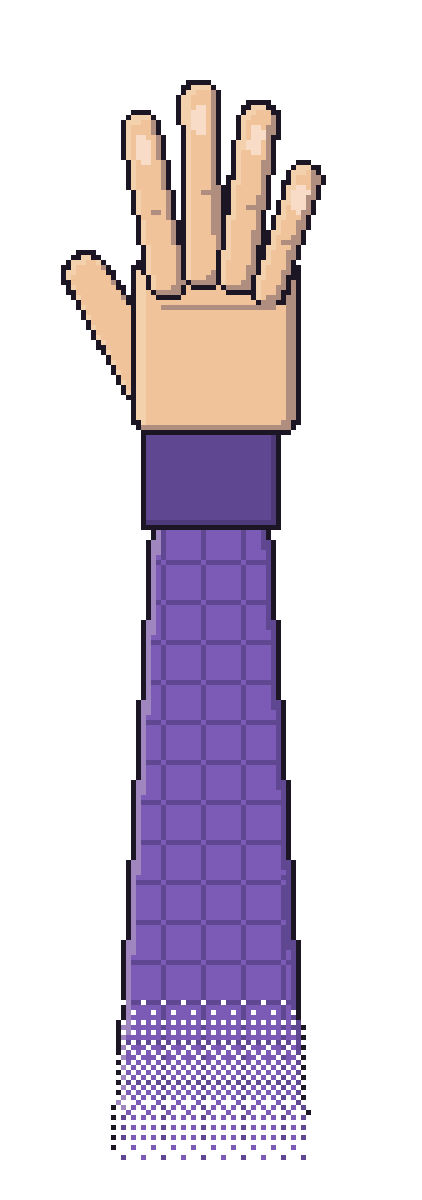
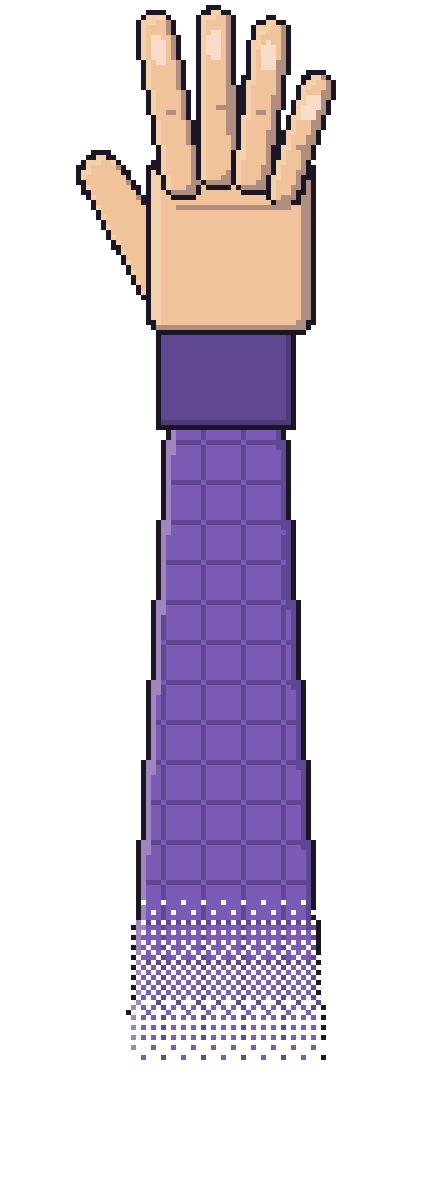
fix pointer fingers

Changed region(s): [[0.1232, 0.0, 0.8009, 0.9558]]

diff --git a/art_originals/pixelgen/Hands.cs b/art_originals/pixelgen/Hands.cs
@@ -31,7 +31,9 @@ public static class Hands
     /// <summary>Model space is 42 x 120 (K = 2 doubles it onto the 84 x 240 grid, keeping 1-pixel outlines).</summary>
     public static Canvas Render(Brother b, string move)
     {
-        var c = new Canvas(GW, GH) { K = 2, Origin = new V(0, 0) };
+        // The game puts the cursor at about (179, 11) of the 422 x 1200 image (scene hand_image.tscn: the TextureRect sits at
+        // (-163, -10), 383 x 1072, keep-aspect-centered), so the drawing is nudged until the pointing fingertip lands there.
+        var c = new Canvas(GW, GH) { K = 2, Origin = new V(0, 0), Offset = new V(3, -20) };
         bool rolled = b.Forearm != null;          // Tim rolls his sleeves up
         bool ring = b.Name is "daniel" or "tim";  // the married brothers
         var skin = b.Skin;
@@ -63,7 +65,7 @@ public static class Hands
 
     // Finger roots along the knuckles (index nearest the thumb, on the left) and how long each finger is when straight.
     static readonly V[] Root = [new(16.6f, 28), new(20.2f, 27), new(23.6f, 27.5f), new(26.8f, 29)];
-    static readonly float[] Len = [15f, 17f, 15.5f, 11.5f];
+    static readonly float[] Len = [15f, 14.2f, 13.8f, 10.5f];  // middle kept short enough to fit under the top edge
 
     static void DrawHand(Canvas c, string move, Col skin, bool ring)
     {
@@ -124,7 +126,7 @@ public static class Hands
     static void FadeBottom(Canvas c)
     {
         int[,] bayer = { { 0, 8, 2, 10 }, { 12, 4, 14, 6 }, { 3, 11, 1, 9 }, { 15, 7, 13, 5 } };
-        const int Start = 196, End = 236;
+        const int Start = 176, End = 216;  // shifted up with the drawing (see Offset)
         for (int y = Start; y < GH; y++)
         {
             float t = Math.Clamp((y - Start) / (float)(End - Start), 0, 1);
